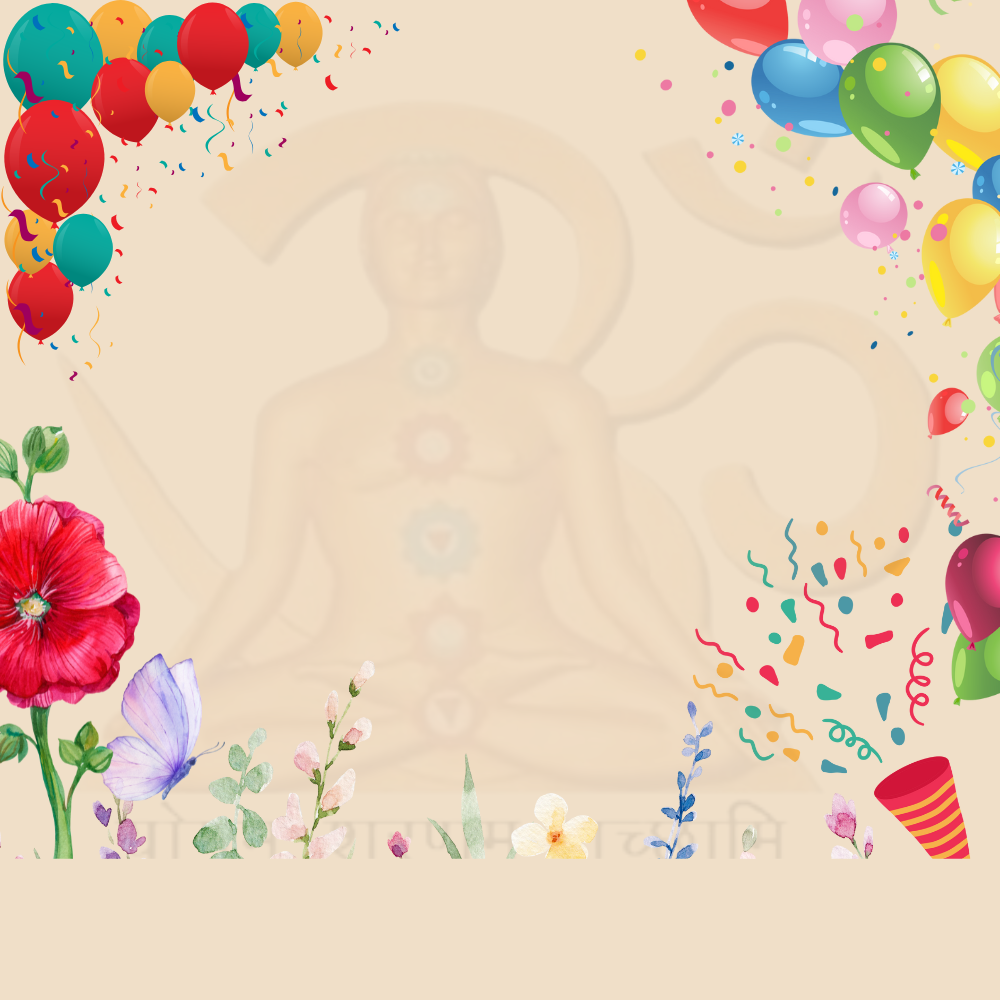
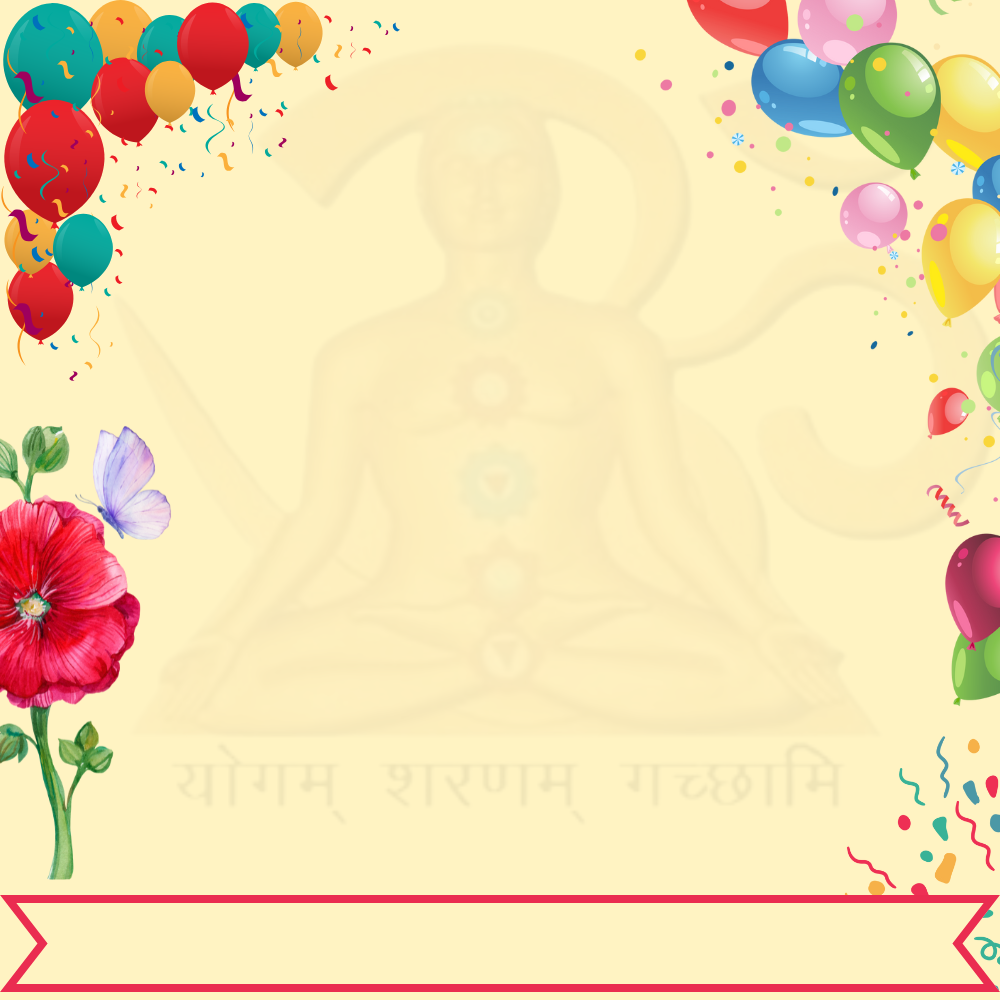
greeting rectified

diff --git a/controllers/greetingController.js b/controllers/greetingController.js
@@ -39,8 +39,14 @@ exports.generateGreeting = async (req, res) => {
     const normalizedType = type?.toLowerCase();
 
     const backgroundImage = await loadImage(
-      path.join(__dirname, "../public/images/bg.png")
+      path.join(
+        __dirname,
+        type == "anniversary"
+          ? "../public/images/bg1.png"
+          : "../public/images/bg.png"
+      )
     );
+
     const logoImage = await loadImage(
       path.join(__dirname, "../public/images/logo-nbg.png")
     );
@@ -103,11 +109,11 @@ exports.generateGreeting = async (req, res) => {
     drawCenteredText(ctx, name, width / 2, 300);
 
     // 📅 Date
-    let yStartMessage = 390;
+    let yStartMessage = 360;
     if (date) {
       const formattedDate = formatDateReadable(date);
       ctx.fillStyle = "#d32f2f";
-      ctx.font = "bold 32px Arial";
+      ctx.font = "bold 38px Arial";
       drawCenteredText(ctx, formattedDate, width / 2, 350);
     }
 
@@ -143,7 +149,7 @@ exports.generateGreeting = async (req, res) => {
     });
 
     // 🟡 From Info
-    const fromLabel = "-From-";  //From Label
+    const fromLabel = "- Best Wishes -"; //From Label
     const fromText = `${user.name} (${user.roles.join(", ")})`;
     const hierarchyText = [kenderName, ksheterName, zilaName]
       .filter(Boolean)
@@ -152,19 +158,20 @@ exports.generateGreeting = async (req, res) => {
     ctx.shadowColor = "#00000022";
     ctx.shadowBlur = 2;
 
-    ctx.font = "bold 30px Arial";
-    ctx.fillStyle = "red";
-    drawCenteredText(ctx, fromLabel, width / 2, 670);
-
     ctx.font = "bold 36px Arial";
+    ctx.fillStyle = "red";
+    ctx.textAlign = "center";
+    ctx.fillText(fromLabel, width / 2, 670);
+
+    ctx.font = "bold 42px Arial";
     ctx.fillStyle = "green";
     ctx.textAlign = "center";
     ctx.fillText(fromText, width / 2, 710);
-    ctx.font = "bold 24px Arial";
-    ctx.fillText(hierarchyText, width / 2, 745);
-    ctx.font = "bold 48px Arial"
-    ctx.fillStyle = "red"
-    ctx.fillText("BHARATIYA YOG SANSTHAN (REGD.)", width / 2, 930);
+    ctx.font = "bold 32px Arial";
+    ctx.fillText(hierarchyText, width / 2, 765);
+    ctx.font = "bold 48px Arial";
+    ctx.fillStyle = "red";
+    ctx.fillText("BHARATIYA YOG SANSTHAN (REGD.)", width / 2, 920);
     // Save File
     const safeName = name.replace(/\s+/g, "_");
     const safeMobile = (mobile || "").replace(/\s+/g, "_");
@@ -237,8 +244,18 @@ function formatDateReadable(dateString) {
   const date = new Date(dateString);
   const day = date.getDate().toString().padStart(2, "0");
   const monthNames = [
-    "Jan", "Feb", "Mar", "Apr", "May", "Jun",
-    "Jul", "Aug", "Sep", "Oct", "Nov", "Dec"
+    "Jan",
+    "Feb",
+    "Mar",
+    "Apr",
+    "May",
+    "Jun",
+    "Jul",
+    "Aug",
+    "Sep",
+    "Oct",
+    "Nov",
+    "Dec",
   ];
   const month = monthNames[date.getMonth()];
   const year = date.getFullYear();
